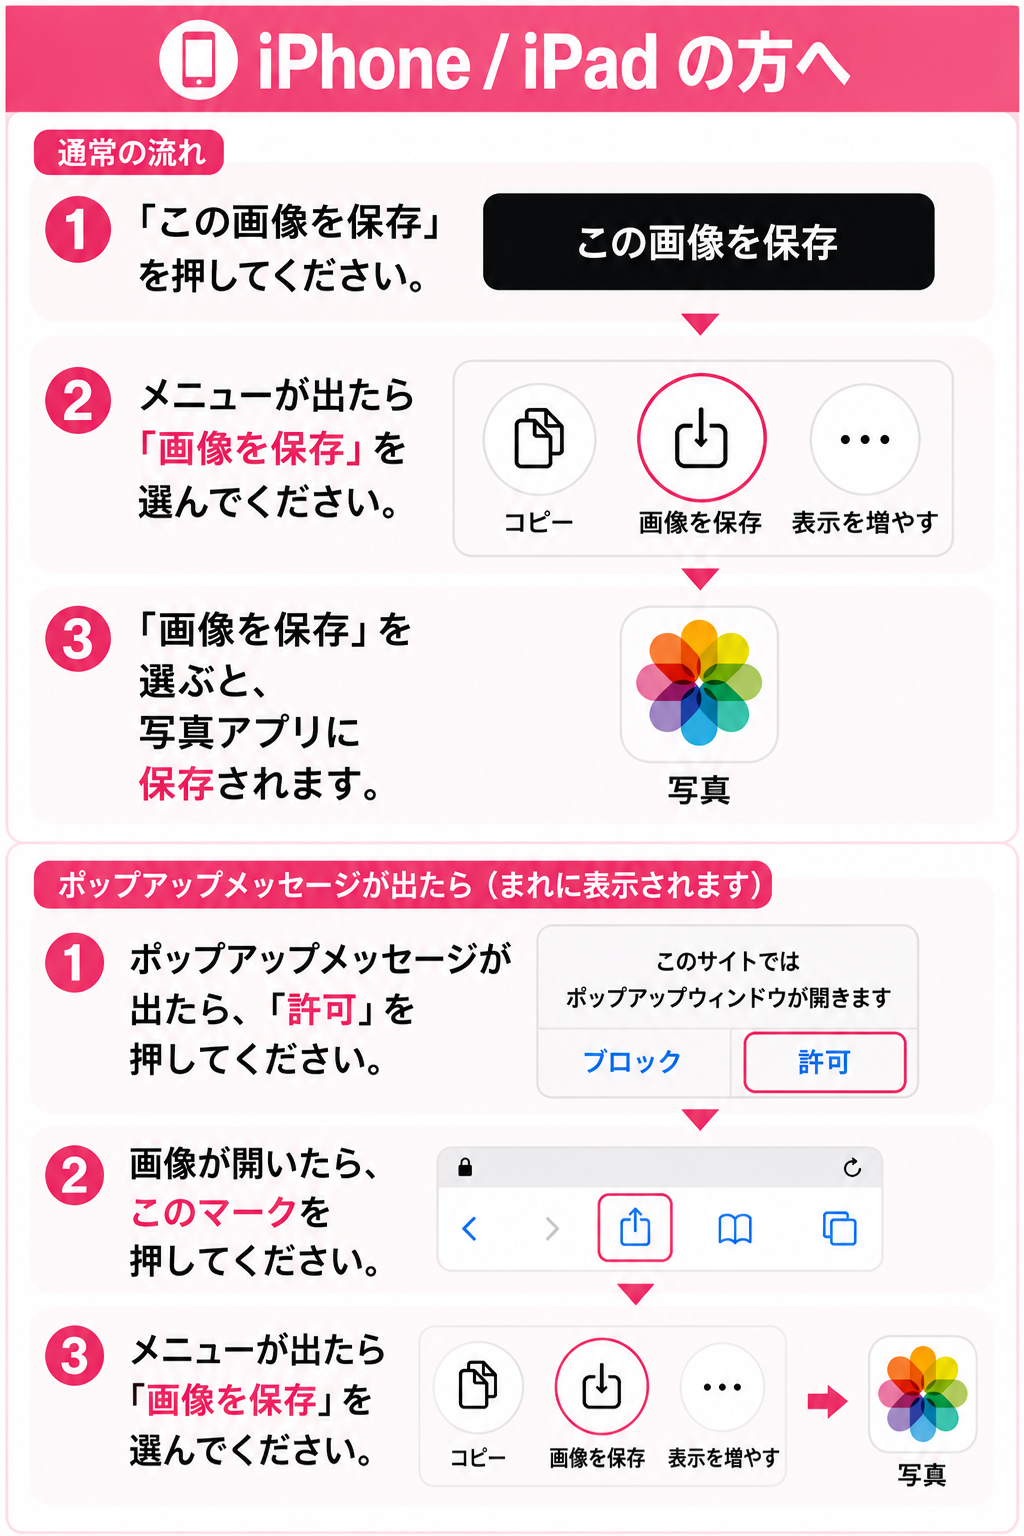
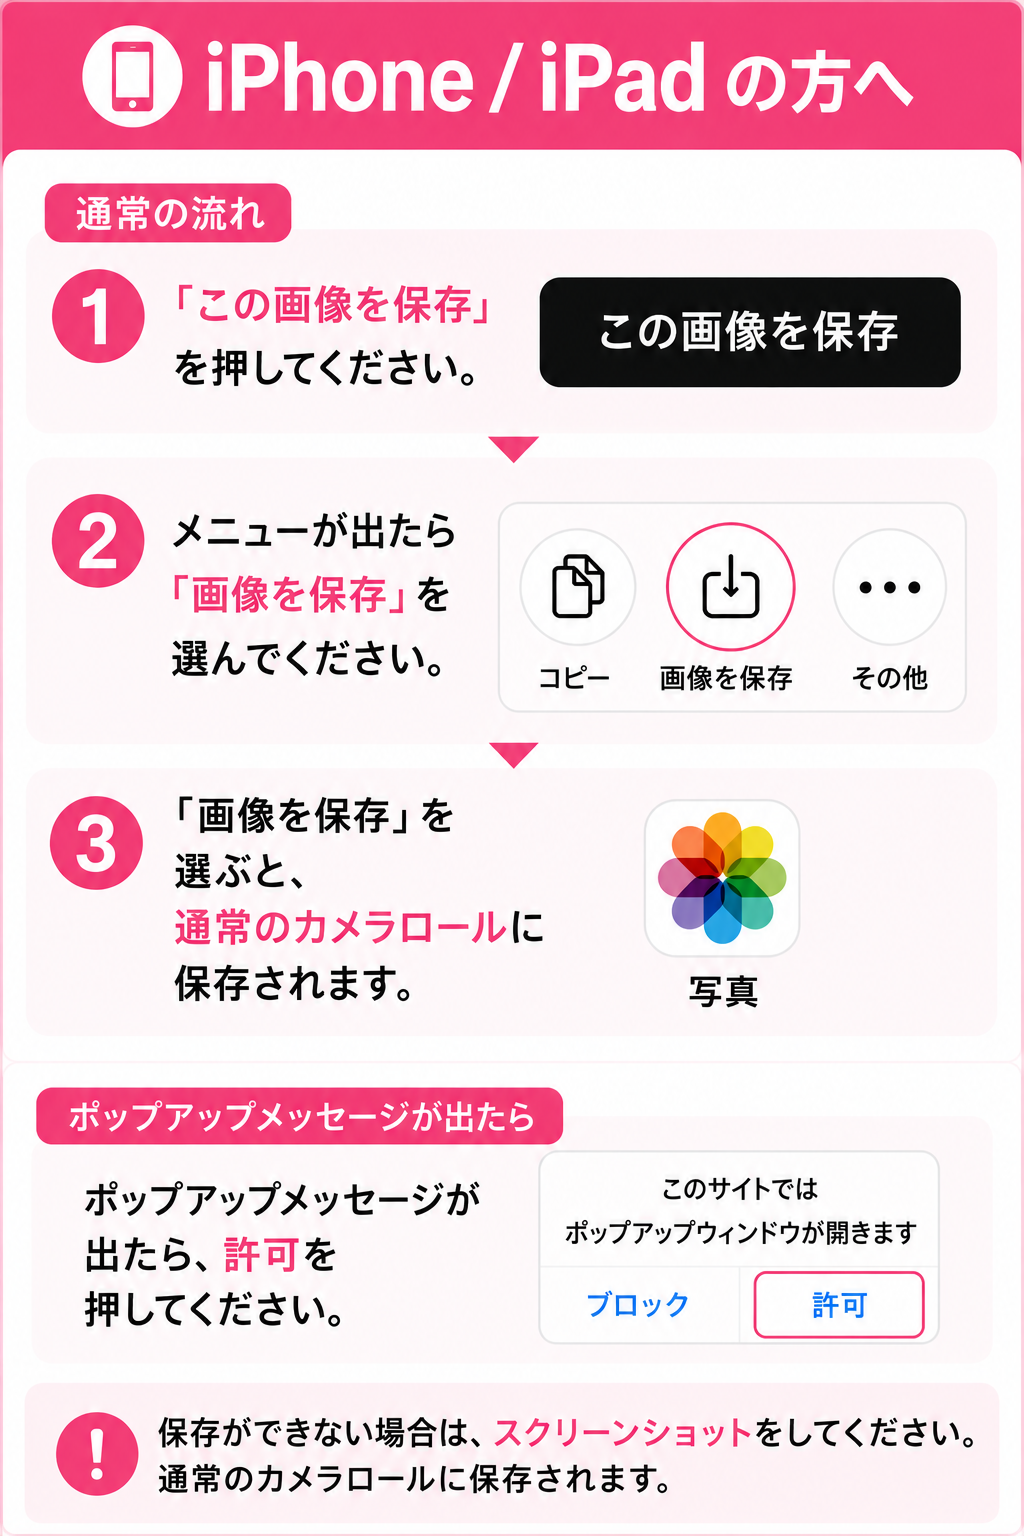
Add files via upload

diff --git a/index.html b/index.html
@@ -435,45 +435,128 @@ canvas{
             div.appendChild(title);
             div.appendChild(button);
 
-            if(index === 0){
-                const iosMessage = document.createElement("div");
-                iosMessage.id = "iosMessage";
-                iosMessage.className = "ios-message";
-                iosMessage.innerHTML = `
-                    <div class="ios-title">📱 iPhone / iPadの方へ</div>
-                    <button type="button" id="iosGuideToggle" class="save-button" style="display:block;margin:8px auto 0;">保存方法はこちら ▼</button>
-                    <div id="iosGuide" style="display:none;margin-top:16px;text-align:center;">
-                        <img src="iphone.png" alt="iPhone保存方法" style="max-width:100%;height:auto;border:1px solid #ddd;border-radius:10px;">
-                    </div>
-                `;
-                div.appendChild(iosMessage);
-            }
+          if(index === 0){
+
+    // iPhone
+    const iosMessage = document.createElement("div");
+
+    iosMessage.id = "iosMessage";
+    iosMessage.className = "ios-message";
+
+    iosMessage.innerHTML = `
+        <div class="ios-title">📱 iPhone / iPadの方へ</div>
+
+        <button
+            type="button"
+            id="iosGuideToggle"
+            class="save-button">
+
+            保存方法はこちら ▼
+
+        </button>
+
+        <div
+            id="iosGuide"
+            style="display:none;margin-top:16px;text-align:center;">
+
+            <img
+                src="iphone.png"
+                style="max-width:100%;height:auto;border:1px solid #ddd;border-radius:10px;">
+
+        </div>
+    `;
+
+    div.appendChild(iosMessage);
+
+
+    // Android
+    const androidMessage = document.createElement("div");
+
+    androidMessage.id = "androidMessage";
+    androidMessage.className = "ios-message";
+
+    androidMessage.innerHTML = `
+        <div class="ios-title">🤖 Androidの方へ</div>
+
+        <button
+            type="button"
+            id="androidGuideToggle"
+            class="save-button">
+
+            保存方法はこちら ▼
+
+        </button>
+
+        <div
+            id="androidGuide"
+            style="display:none;margin-top:16px;text-align:center;">
+
+            <img
+                src="android.png"
+                style="max-width:100%;height:auto;border:1px solid #ddd;border-radius:10px;">
+
+        </div>
+    `;
+
+    div.appendChild(androidMessage);
+
+}
 
             div.appendChild(canvas);
 
             elements.previewArea.appendChild(div);
         });
 
-        setupIOSGuide();
+        setupGuide();
     }
 
-    function setupIOSGuide(){
-        const iosMessage = document.getElementById("iosMessage");
-        const iosGuideToggle = document.getElementById("iosGuideToggle");
-        const iosGuide = document.getElementById("iosGuide");
+  function setupGuide(){
 
-        if(!iosMessage || !iosGuideToggle || !iosGuide) return;
+    const iosMessage = document.getElementById("iosMessage");
+    const iosGuideToggle = document.getElementById("iosGuideToggle");
+    const iosGuide = document.getElementById("iosGuide");
 
-        if(env.isIOS){
-            iosMessage.classList.add("show");
-        }
+    const androidMessage = document.getElementById("androidMessage");
+    const androidGuideToggle = document.getElementById("androidGuideToggle");
+    const androidGuide = document.getElementById("androidGuide");
+
+    // iPhone / iPad
+    if(env.isIOS && iosMessage){
+        iosMessage.classList.add("show");
 
         iosGuideToggle.addEventListener("click", function(){
-            const isOpen = iosGuide.style.display === "block";
-            iosGuide.style.display = isOpen ? "none" : "block";
-            iosGuideToggle.textContent = isOpen ? "保存方法はこちら ▼" : "保存方法を閉じる ▲";
+
+            const open = iosGuide.style.display === "block";
+
+            iosGuide.style.display = open ? "none" : "block";
+
+            iosGuideToggle.textContent =
+                open
+                ? "保存方法はこちら ▼"
+                : "保存方法を閉じる ▲";
+
         });
     }
+
+    // Android
+    if(env.isAndroid && androidMessage){
+        androidMessage.classList.add("show");
+
+        androidGuideToggle.addEventListener("click", function(){
+
+            const open = androidGuide.style.display === "block";
+
+            androidGuide.style.display = open ? "none" : "block";
+
+            androidGuideToggle.textContent =
+                open
+                ? "保存方法はこちら ▼"
+                : "保存方法を閉じる ▲";
+
+        });
+    }
+
+}
 
     function renderAll(){
         if(!state.personImg) return;